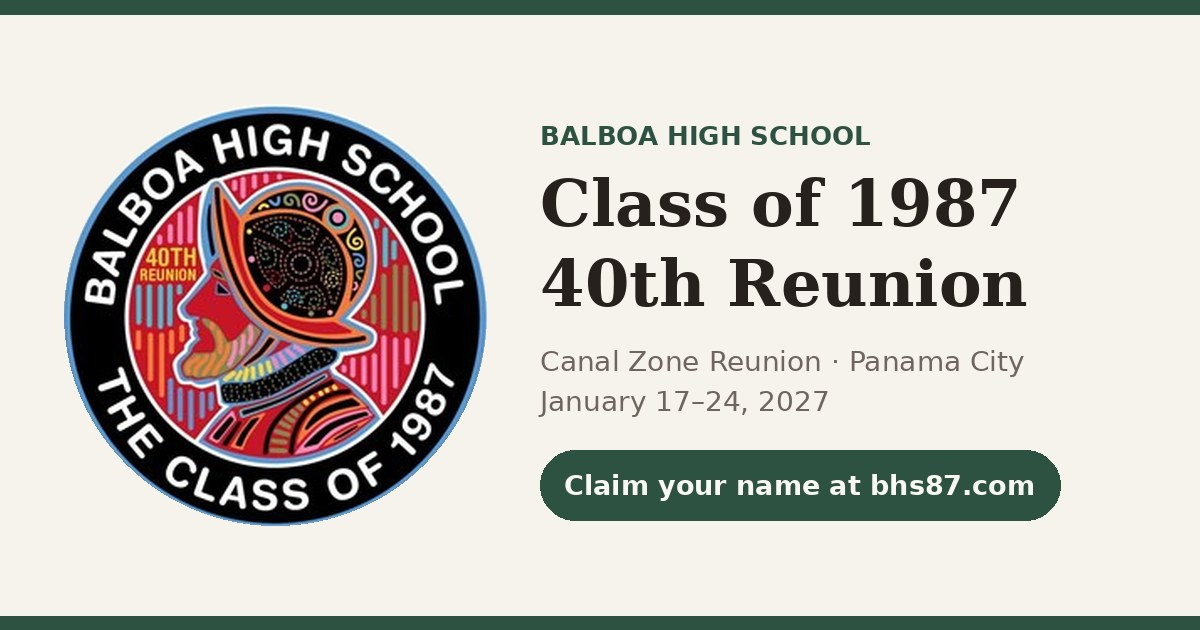
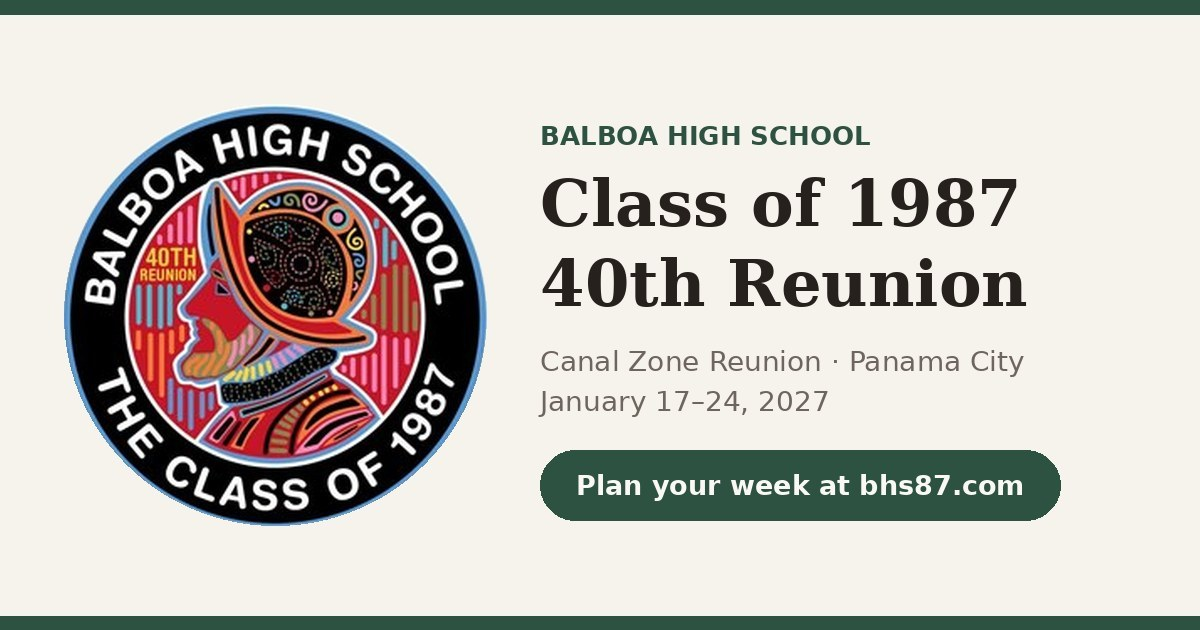
SEO copy: drop 'claim your name', roster card and weather; Missing Photos card
Claude-Session: https://claude.ai/code/session_01Ez9SoBsJePKxPMZ4AmxxZE

Changed region(s): [[0.4625, 0.754, 0.8633, 0.8143]]

diff --git a/client/index.html b/client/index.html
@@ -6,7 +6,7 @@
     <title>BHS87 · Balboa High School Class of 1987 40th Reunion Planner | CZR 2027 Panama</title>
     <meta
       name="description"
-      content="Balboa High School Class of '87 (Panama Canal Zone): claim your name, plan your week at the Canal Zone Reunion in Panama City, Jan 17–24, 2027, see which classmates are in town, and flip through the '87 yearbook. Free."
+      content="Balboa High School Class of '87 (Panama Canal Zone): plan your week at the Canal Zone Reunion in Panama City, Jan 17–24, 2027, see which classmates are in town, and flip through the '87 yearbook. Free."
     />
     <link rel="canonical" href="https://bhs87.com/" />
     <meta name="robots" content="index, follow, max-image-preview:large" />
@@ -17,7 +17,7 @@
     <meta property="og:site_name" content="BHS87 · Balboa High School Class of 1987" />
     <meta property="og:url" content="https://bhs87.com/" />
     <meta property="og:title" content="Balboa High School Class of '87: 40th Reunion, Panama, Jan 2027" />
-    <meta property="og:description" content="Claim your name, plan your reunion week, see which classmates are in town, and find people who want to do the same things. Takes about two minutes." />
+    <meta property="og:description" content="Plan your reunion week, see which classmates are in town, and find people who want to do the same things. Takes about two minutes." />
     <meta property="og:image" content="https://bhs87.com/og-image.jpg" />
     <meta property="og:image:width" content="1200" />
     <meta property="og:image:height" content="630" />
@@ -25,7 +25,7 @@
     <meta property="og:locale" content="en_US" />
     <meta name="twitter:card" content="summary_large_image" />
     <meta name="twitter:title" content="Balboa High School Class of '87: 40th Reunion, Panama, Jan 2027" />
-    <meta name="twitter:description" content="Claim your name, plan your reunion week, see which classmates are in town, and find people who want to do the same things." />
+    <meta name="twitter:description" content="Plan your reunion week, see which classmates are in town, and find people who want to do the same things." />
     <meta name="twitter:image" content="https://bhs87.com/og-image.jpg" />
 
     <link rel="icon" type="image/png" href="./favicon.png" />
@@ -47,7 +47,7 @@
           "url": "https://bhs87.com/",
           "name": "BHS87 · Balboa High School Class of 1987",
           "alternateName": ["bhs87.com", "CZR BHS87 Reunion", "Balboa High School Class of '87"],
-          "description": "The Balboa High School Class of 1987's 40th reunion planner and class site: class roster, reunion-week planning, who's in town, interest groups, ticket watch and the 1987 yearbook online.",
+          "description": "The Balboa High School Class of 1987's 40th reunion planner and class site: reunion-week planning, who's in town, interest groups, ticket watch, and a Missing Photos page for classmates not in the 1987 yearbook.",
           "publisher": { "@id": "https://bhs87.com/#class" },
           "inLanguage": "en"
         },
@@ -70,13 +70,11 @@
           "isAccessibleForFree": true,
           "offers": { "@type": "Offer", "price": "0", "priceCurrency": "USD" },
           "featureList": [
-            "Claim your name on the Class of 1987 roster with a one-time email link (no password)",
             "Plan your reunion week: dates, Yacht Club '87 Dinner/Dance, CZR and MiEvento events on one calendar",
             "See which classmates are in town on which days, and the best times to meet",
             "Interest groups for shared outings, with best times, venue ideas and group chat links",
             "Ticket Watch: which CZR 2027 events are sold out or almost gone",
-            "Balboa High School 1987 yearbook online, searchable by yearbook or current name",
-            "Add a current photo if you had no senior portrait"
+            "Not in the 1987 yearbook? Add your photo to the Missing Photos page so the class can put a face to your name"
           ],
           "audience": { "@type": "Audience", "audienceType": "Balboa High School Class of 1987 alumni" },
           "publisher": { "@id": "https://bhs87.com/#class" }
@@ -125,12 +123,11 @@
         <p>bhs87.com is the Balboa High School Class of '87's own site for our 40th reunion at the Canal Zone Reunion (CZR) in Panama City, Panama, January 17&ndash;24, 2027.</p>
         <h2>Why sign up</h2>
         <ul>
-          <li>Claim your name on the Class of 1987 roster with a one-time email link. No password, and your email is never shown.</li>
           <li>Plan your reunion week in about two minutes: your dates, the Yacht Club '87 Dinner/Dance (Wed Jan 20, 2027) and the CZR events you're going to, all on one calendar.</li>
           <li>See which classmates are in town on which days and the best times for the group to meet.</li>
           <li>Join interest groups for shared outings, with best times, venue ideas and a group chat link.</li>
           <li>Ticket Watch shows which CZR 2027 events are sold out or almost gone.</li>
-          <li>Flip through the 1987 Balboa High School yearbook and add a current photo if you had no senior portrait.</li>
+          <li>Coming to the reunion, but your photo isn't in the '87 yearbook? Add a photo to the Missing Photos page so the class can put a face to your name.</li>
         </ul>
         <p>This planner needs JavaScript. Read more on the <a href="/about">Why join bhs87.com</a> page.</p>
       </div>

diff --git a/client/public/about/index.html b/client/public/about/index.html
@@ -4,7 +4,7 @@
   <meta charset="UTF-8" />
   <meta name="viewport" content="width=device-width, initial-scale=1.0" />
   <title>Why Join bhs87.com | Balboa High School Class of 1987 40th Reunion</title>
-  <meta name="description" content="Balboa High School Class of 1987 (Panama Canal Zone): claim your name, plan your week at the Canal Zone Reunion in Panama City, Jan 17–24, 2027, see who's in town, and flip through the '87 yearbook. Free." />
+  <meta name="description" content="Balboa High School Class of 1987 (Panama Canal Zone): plan your week at the Canal Zone Reunion in Panama City, Jan 17–24, 2027, see who's in town, and flip through the '87 yearbook. Free." />
   <link rel="canonical" href="https://bhs87.com/about" />
   <meta name="robots" content="index, follow, max-image-preview:large" />
   <meta name="theme-color" content="#2d5242" />
@@ -13,14 +13,14 @@
   <meta property="og:site_name" content="BHS87 · Balboa High School Class of 1987" />
   <meta property="og:url" content="https://bhs87.com/about" />
   <meta property="og:title" content="Why join bhs87.com: Balboa High School Class of '87, 40th Reunion" />
-  <meta property="og:description" content="Claim your name, plan your reunion week in Panama (Jan 17–24, 2027), see which classmates are in town, and find people who want to do the same things. Takes about two minutes." />
+  <meta property="og:description" content="Plan your reunion week in Panama (Jan 17–24, 2027), see which classmates are in town, and find people who want to do the same things. Takes about two minutes." />
   <meta property="og:image" content="https://bhs87.com/og-image.jpg" />
   <meta property="og:image:width" content="1200" />
   <meta property="og:image:height" content="630" />
   <meta property="og:image:alt" content="Balboa High School, The Class of 1987, 40th Reunion logo" />
   <meta name="twitter:card" content="summary_large_image" />
   <meta name="twitter:title" content="Why join bhs87.com: Balboa High School Class of '87, 40th Reunion" />
-  <meta name="twitter:description" content="Claim your name, plan your reunion week in Panama, see who's in town, and find classmates who want to do the same things." />
+  <meta name="twitter:description" content="Plan your reunion week in Panama, see who's in town, and find classmates who want to do the same things." />
   <meta name="twitter:image" content="https://bhs87.com/og-image.jpg" />
 
   <link rel="icon" type="image/png" href="/favicon.png" />
@@ -147,7 +147,7 @@
       <img src="/reunion-logo.jpg" alt="Balboa High School, The Class of 1987, 40th Reunion logo" width="112" height="112" />
       <p class="kicker">Balboa High School · Class of 1987 · 40th Reunion</p>
       <h1>Why join bhs87.com?</h1>
-      <p class="lede">bhs87.com is the Balboa High School Class of '87's own site for our 40th reunion at the Canal Zone Reunion in Panama City, Panama, January 17–24, 2027. Claim your name, tell the class when you'll be around, and see who else is coming and what they want to do.</p>
+      <p class="lede">bhs87.com is the Balboa High School Class of '87's own site for our 40th reunion at the Canal Zone Reunion in Panama City, Panama, January 17–24, 2027. Tell the class when you'll be around, and see who else is coming and what they want to do.</p>
       <a class="btn" href="/">Find my name &amp; plan my week</a>
       <p class="note">Free · takes about two minutes · no password</p>
     </div>
@@ -155,10 +155,6 @@
     <section aria-labelledby="get">
       <h2 id="get">What you get when you sign up</h2>
       <div class="grid">
-        <div class="card">
-          <h3>Your name on the class roster</h3>
-          <p>Find yourself on the Class of '87 roster and claim it with a one-time email link. Only you can change your entry, and your email is never shown.</p>
-        </div>
         <div class="card">
           <h3>Your reunion week, planned in minutes</h3>
           <p>Enter your dates in Panama, answer for the Yacht Club '87 Dinner/Dance, and tick the CZR and MiEvento events you plan to attend or already have tickets for. They go straight onto your calendar, with time clashes flagged.</p>
@@ -176,16 +172,12 @@
           <p>Ticket Watch shows which Canal Zone Reunion events on MiEvento are sold out or almost gone, refreshed through the season, with a direct link to buy.</p>
         </div>
         <div class="card">
-          <h3>The '87 yearbook, online</h3>
-          <p>Flip through the Balboa High School 1987 yearbook and search by yearbook name or today's name. No senior portrait? Add a current photo to the Missing Photos page so the class can put a face to your name.</p>
+          <h3>Not in the yearbook? Add your photo</h3>
+          <p>Coming to the reunion, but your photo isn't in the '87 yearbook? Here's your chance: add a photo to the Missing Photos page so the class can put a face to your name.</p>
         </div>
         <div class="card">
           <h3>Lead an outing, if you'd like</h3>
           <p>Volunteer as an Event Organizer for an interest group, post the plan and the chat link, and the classmates who signed up for it see it on the dashboard.</p>
-        </div>
-        <div class="card">
-          <h3>Reunion weather</h3>
-          <p>Compare January weather in Panama City with home, so you know what to pack.</p>
         </div>
       </div>
     </section>

diff --git a/client/src/components/why-join.tsx b/client/src/components/why-join.tsx
@@ -1,4 +1,4 @@
-import { CalendarCheck, BookOpen, Ticket, Users } from "lucide-react";
+import { CalendarCheck, Camera, Ticket, Users } from "lucide-react";
 
 // Plain-language reasons to sign up, shown under the entry form. The full
 // version (with FAQ and structured data for search engines) is the static
@@ -20,9 +20,9 @@ const REASONS = [
     body: "Join interest groups with classmates who want the same things, and see which events are selling out.",
   },
   {
-    icon: BookOpen,
-    title: "The '87 yearbook",
-    body: "Flip through it online, search by today's name, and add a current photo if you had no portrait.",
+    icon: Camera,
+    title: "Not in the yearbook? Add your photo",
+    body: "Coming to the reunion, but your photo isn't in the '87 yearbook? Add one to the Missing Photos page so the class can put a face to your name.",
   },
 ];
 
